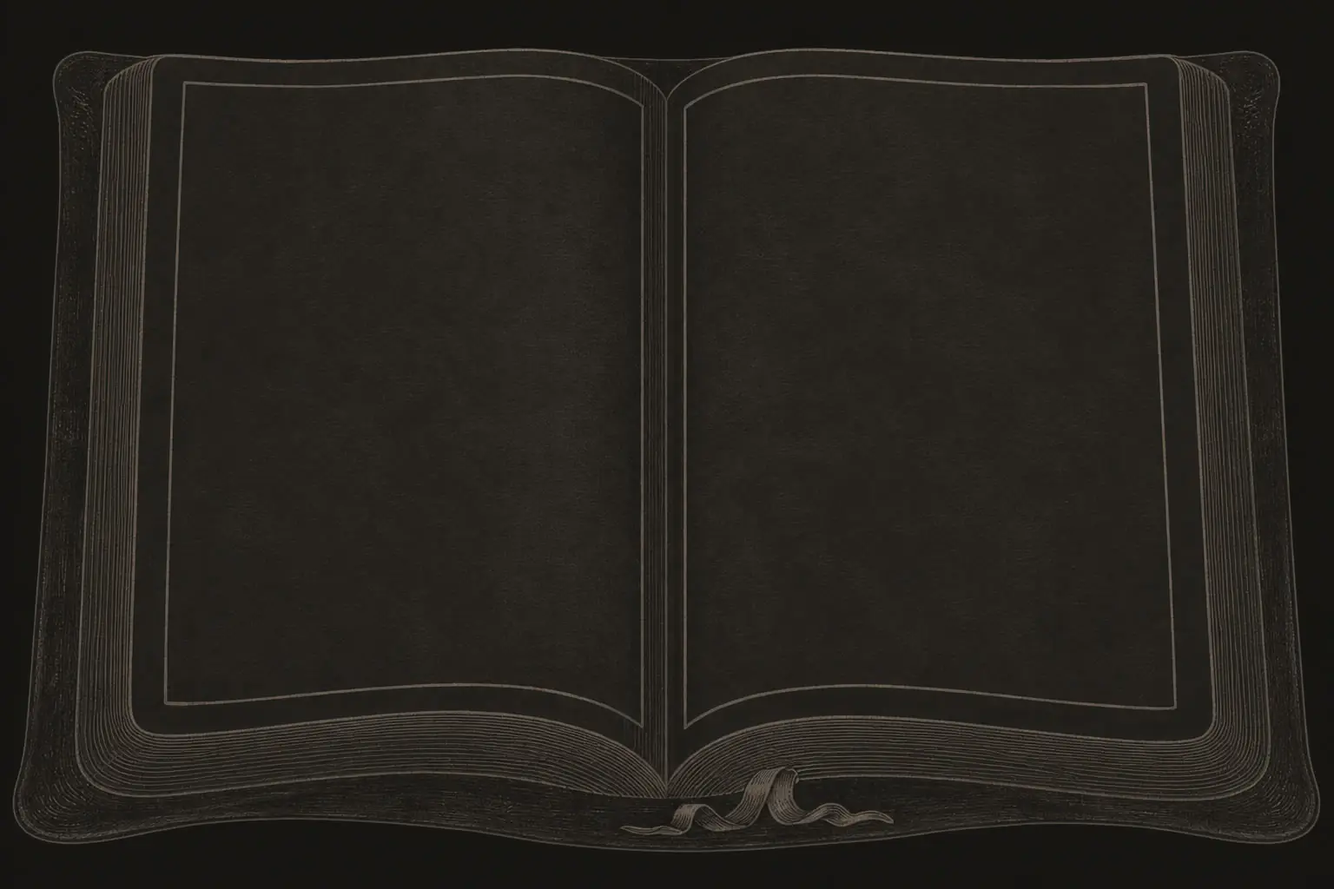
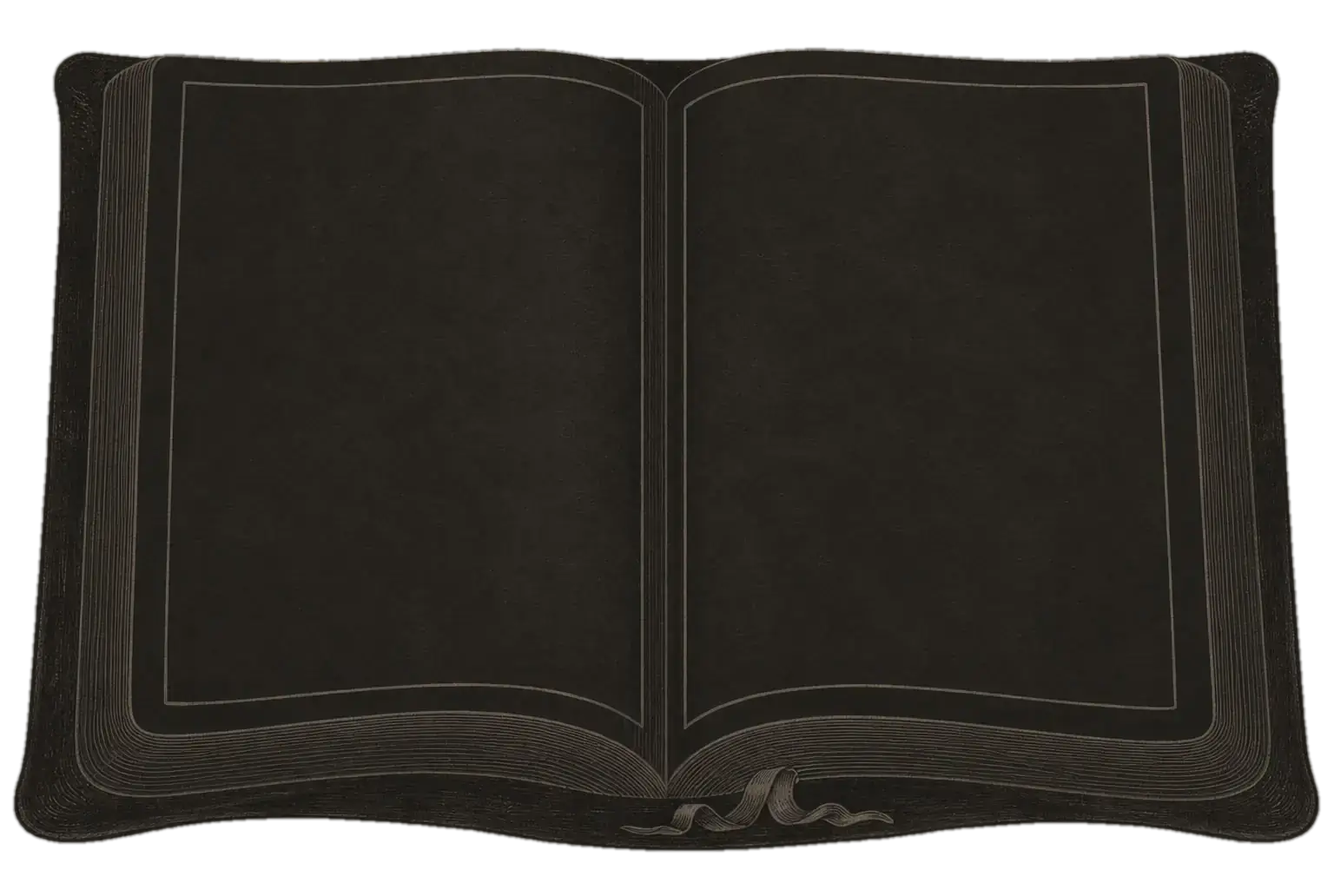
fix(home): отступы книги от нарисованной рамки страниц, книга без фона-прямоугольника (#2430)

Changed region(s): [[0.0, 0.0, 1.0, 1.0]]

diff --git a/scripts/ssg-skeletons.js b/scripts/ssg-skeletons.js
@@ -255,7 +255,7 @@ ${HOME_DOCK_VISIBILITY_SELECTOR},${HOME_DOCK_VISIBILITY_SELECTOR} *{visibility:v
 .ssg-home-popular-line{height:12px;border-radius:6px;margin:10px 12px 0}
 .ssg-home-popular-line.w76{width:76%}.ssg-home-popular-line.w55{width:55%}
 @media(min-width:768px) and (max-width:1279px){.ssg-home-shell{padding:24px}.ssg-home-book{display:grid;grid-template-columns:minmax(0,1fr) minmax(0,1fr);gap:32px}.ssg-home-page{grid-column:1;grid-row:1;justify-content:center;gap:16px;padding:32px}.ssg-home-week{grid-column:2;grid-row:1;margin-top:0}.ssg-home-moods{grid-column:1/-1;grid-template-columns:repeat(2,minmax(0,1fr));margin-top:0;border-top:0;padding-top:0}.ssg-home-hero{aspect-ratio:3/2;height:auto}.ssg-home-popular{display:none}}
-@media(min-width:1280px){.ssg-home-bar{height:78px;padding:0 24px;gap:0}.ssg-home-bar-logo{width:32px;height:32px;flex:0 0 32px}.ssg-home-bar-brand{gap:8px}.ssg-home-bar-word{display:inline;font:600 18px/1 ${SANS};color:${COLORS.light.text};letter-spacing:-0.01em}.ssg-home-bar-burger{display:none}.ssg-home-bar-nav{display:flex;align-items:center;gap:22px;margin-left:41px;font:500 14px/1 ${SANS};color:${COLORS.light.text};white-space:nowrap}.ssg-home-bar-nav-item{display:inline-flex;align-items:center;gap:6px}.ssg-home-bar-nav-ico{width:18px;height:18px;flex:0 0 18px}.ssg-home-bar-login{display:inline-flex;align-items:center;gap:8px;height:36px;padding:0 14px;margin-left:12px;border-radius:12px;background:${COLORS.light.primary};font:700 14px/1 ${SANS};color:${COLORS.light.textOnPrimary}}.ssg-home-bar-guest{display:inline-flex;align-items:center;gap:8px;height:36px;padding:0 14px;margin-left:12px;border-radius:12px;background:${COLORS.light.bgSecondary};font:500 14px/1 ${SANS};color:${COLORS.light.text}}.ssg-home-shell{max-width:none;padding:52px 40px 24px}.ssg-home-book{display:grid;grid-template-columns:49% 51%;gap:0;margin:0 auto;background-color:${COLORS.light.surface};background-image:var(--image-homeHeroBook,none);background-size:100% 100%;background-repeat:no-repeat;border-radius:36px;overflow:hidden}.ssg-home-page{position:relative;align-self:stretch;min-height:0;min-width:0;box-sizing:border-box;justify-content:flex-start;gap:0;border-radius:0;background:transparent;border:0;overflow:hidden}.ssg-home-page-content{display:flex;flex-direction:column;min-height:0;overflow-y:auto;overflow-x:hidden}.ssg-home-page-content>*{flex-shrink:0}.ssg-home-chapter{display:flex;align-items:center;gap:10px;margin-bottom:12px}.ssg-home-chapter-label{font:600 11px/1.4 Baskerville,Georgia,'Times New Roman',serif;letter-spacing:.14em;text-transform:uppercase;color:${COLORS.light.textMuted};white-space:nowrap}.ssg-home-chapter-line{flex:1;height:1px;background:${COLORS.light.border}}.ssg-home-title{font-family:Baskerville,Georgia,'Times New Roman',serif;font-size:clamp(24px,1.9vw,32px);line-height:1.24;letter-spacing:-0.2px}.ssg-home-title .ssg-accent{color:${BOOK_PAGE_ACCENT}}.ssg-home-sub{font-family:Baskerville,Georgia,'Times New Roman',serif;max-width:88%;margin-top:10px;margin-bottom:12px}.ssg-home-sub-mobile{display:none}.ssg-home-sub-desktop{display:block}.ssg-home-search-row{height:50px;margin-top:0;margin-bottom:10px}.ssg-home-search{height:50px}.ssg-home-search-btn{width:50px;height:50px;flex:0 0 50px}.ssg-home-cta{width:100%;min-width:190px;height:44px;margin-top:0}.ssg-home-moods,.ssg-home-popular{display:none}.ssg-home-week{top:29.2%;align-self:start;width:61.2%;aspect-ratio:3/2;margin:0 0 0 5.1%;border-radius:12px;border:0;background:${HOME_HERO_FILL}}.ssg-home-hero{position:absolute;inset:0;height:100%;aspect-ratio:auto;border-radius:inherit}.ssg-home-week-body{left:24px;right:24px;bottom:22px;padding:18px}}
+@media(min-width:1280px){.ssg-home-bar{height:78px;padding:0 24px;gap:0}.ssg-home-bar-logo{width:32px;height:32px;flex:0 0 32px}.ssg-home-bar-brand{gap:8px}.ssg-home-bar-word{display:inline;font:600 18px/1 ${SANS};color:${COLORS.light.text};letter-spacing:-0.01em}.ssg-home-bar-burger{display:none}.ssg-home-bar-nav{display:flex;align-items:center;gap:22px;margin-left:41px;font:500 14px/1 ${SANS};color:${COLORS.light.text};white-space:nowrap}.ssg-home-bar-nav-item{display:inline-flex;align-items:center;gap:6px}.ssg-home-bar-nav-ico{width:18px;height:18px;flex:0 0 18px}.ssg-home-bar-login{display:inline-flex;align-items:center;gap:8px;height:36px;padding:0 14px;margin-left:12px;border-radius:12px;background:${COLORS.light.primary};font:700 14px/1 ${SANS};color:${COLORS.light.textOnPrimary}}.ssg-home-bar-guest{display:inline-flex;align-items:center;gap:8px;height:36px;padding:0 14px;margin-left:12px;border-radius:12px;background:${COLORS.light.bgSecondary};font:500 14px/1 ${SANS};color:${COLORS.light.text}}.ssg-home-shell{max-width:none;padding:52px 40px 24px}.ssg-home-book{display:grid;grid-template-columns:49% 51%;gap:0;margin:0 auto;background-color:transparent;background-image:var(--image-homeHeroBook,none);background-size:100% 100%;background-repeat:no-repeat;border-radius:36px;overflow:hidden}.ssg-home-page{position:relative;align-self:stretch;min-height:0;min-width:0;box-sizing:border-box;justify-content:flex-start;gap:0;border-radius:0;background:transparent;border:0;overflow:hidden}.ssg-home-page-content{display:flex;flex-direction:column;min-height:0;overflow-y:auto;overflow-x:hidden}.ssg-home-page-content>*{flex-shrink:0}.ssg-home-chapter{display:flex;align-items:center;gap:10px;margin-bottom:12px}.ssg-home-chapter-label{font:600 11px/1.4 Baskerville,Georgia,'Times New Roman',serif;letter-spacing:.14em;text-transform:uppercase;color:${COLORS.light.textMuted};white-space:nowrap}.ssg-home-chapter-line{flex:1;height:1px;background:${COLORS.light.border}}.ssg-home-title{font-family:Baskerville,Georgia,'Times New Roman',serif;font-size:clamp(24px,1.9vw,32px);line-height:1.24;letter-spacing:-0.2px}.ssg-home-title .ssg-accent{color:${BOOK_PAGE_ACCENT}}.ssg-home-sub{font-family:Baskerville,Georgia,'Times New Roman',serif;max-width:88%;margin-top:10px;margin-bottom:12px}.ssg-home-sub-mobile{display:none}.ssg-home-sub-desktop{display:block}.ssg-home-search-row{height:50px;margin-top:0;margin-bottom:10px}.ssg-home-search{height:50px}.ssg-home-search-btn{width:50px;height:50px;flex:0 0 50px}.ssg-home-cta{width:100%;min-width:190px;height:44px;margin-top:0}.ssg-home-moods,.ssg-home-popular{display:none}.ssg-home-week{top:29.2%;align-self:start;width:61.2%;aspect-ratio:3/2;margin:0 0 0 5.1%;border-radius:12px;border:0;background:${HOME_HERO_FILL}}.ssg-home-hero{position:absolute;inset:0;height:100%;aspect-ratio:auto;border-radius:inherit}.ssg-home-week-body{left:24px;right:24px;bottom:22px;padding:18px}}
 @media(min-width:1280px){.ssg-home-legal{max-width:none;padding:8px 40px 0}}
 @media(min-width:1280px) and (min-height:961px){.ssg-home-notes{display:grid;grid-template-columns:repeat(2,minmax(0,1fr));gap:7px;margin-top:8px}.ssg-home-note{height:44px;border-radius:12px;background:rgba(255,255,255,.45);border:1px solid ${COLORS.light.border}}}
 ${buildHomeBookSkeletonGeometryCSS()}
@@ -411,7 +411,7 @@ html[data-theme="dark"] .ssg-home-popular-card{background:${COLORS.dark.bgSecond
 /* Акцент и поле поиска темизируются только вне книги: страница раскрытой книги
    на desktop всегда светлая (bookPageAccent + бумажные цвета поиска). */
 @media(max-width:1279px){html[data-theme="dark"] .ssg-home-title .ssg-accent{color:${COLORS.dark.accent}}html[data-theme="dark"] .ssg-home-search{background:${COLORS.dark.surface};border-color:${COLORS.dark.border};color:${COLORS.dark.textMuted}}html[data-theme="dark"] .ssg-home-search-text{color:${COLORS.dark.textMuted}}}
-@media(min-width:1280px){html[data-theme="dark"] .ssg-home-page{background-color:transparent}}
+@media(min-width:1280px){html[data-theme="dark"] .ssg-home-book,html[data-theme="dark"] .ssg-home-page{background-color:transparent}}
 html[data-theme="dark"] .ssg-search-card,html[data-theme="dark"] .ssg-search-aside{background:${COLORS.dark.surface};border-color:${COLORS.dark.border}}
 html[data-theme="dark"] .ssg-search-bar{background:${COLORS.dark.surface};border-color:${COLORS.dark.border};color:${COLORS.dark.textMuted}}
 html[data-theme="dark"] .ssg-search-tool{background:${COLORS.dark.bgSecondary};border-color:${COLORS.dark.border}}

diff --git a/components/home/homeBookGeometry.js b/components/home/homeBookGeometry.js
@@ -1,14 +1,47 @@
 /* global module */
 // Pure geometry shared by the loaded book and its Node-only static shell.
+// Inner page frame drawn on open-book-bg(-dark).webp (both share one drawing),
+// as shares of the artwork. The wrapper stretches the artwork with
+// `background-size: 100% 100%`, so horizontal shares are shares of the book
+// width and vertical ones of the book height. Innermost line across the page
+// slant, measured on the 1536×1024 source.
+const HOME_BOOK_ARTWORK_FRAME = Object.freeze({
+  left: 0.131,
+  gutterLeft: 0.4805,
+  right: 0.867,
+  top: 0.097,
+  bottom: 0.777,
+})
+// Breathing room between that frame line and the page content.
+const HOME_BOOK_FRAME_GAP = Object.freeze({ x: 0.025, y: 0.035 })
+// Shares go into CSS strings verbatim, so float noise is cut off here.
+const share = (value) => Math.round(value * 1e4) / 1e4
+
 const HOME_BOOK_GEOMETRY = Object.freeze({
   viewportReserve: 180,
   horizontalReserve: 80,
   artworkHeightRatio: 765 / 1040,
   minHeight: 240,
   compactHeight: 760,
-  topInsetShare: 0.08,
-  bottomInsetShare: 0.14,
+  topInsetShare: share(HOME_BOOK_ARTWORK_FRAME.top + HOME_BOOK_FRAME_GAP.y),
+  bottomInsetShare: share(1 - HOME_BOOK_ARTWORK_FRAME.bottom + HOME_BOOK_FRAME_GAP.y),
+  // Left-page content edges, as shares of the whole book width.
+  leftPageStartShare: share(HOME_BOOK_ARTWORK_FRAME.left + HOME_BOOK_FRAME_GAP.x),
+  leftPageEndShare: share(HOME_BOOK_ARTWORK_FRAME.gutterLeft - HOME_BOOK_FRAME_GAP.x),
+  rightPageEndShare: share(1 - HOME_BOOK_ARTWORK_FRAME.right + HOME_BOOK_FRAME_GAP.x),
+  // Page numbers sit inside the frame, just above its bottom line.
+  pageNumberBottomShare: share(1 - HOME_BOOK_ARTWORK_FRAME.bottom + 0.012),
 })
+
+// Horizontal padding of a left page that takes `pageShare` of the book width,
+// as shares of the book width: CSS percentage padding of a flex item resolves
+// against its container — the whole book row — not against the page itself.
+function getHomeBookLeftPagePaddingShares(pageShare) {
+  return {
+    start: HOME_BOOK_GEOMETRY.leftPageStartShare,
+    end: share(Math.max(0, pageShare - HOME_BOOK_GEOMETRY.leftPageEndShare)),
+  }
+}
 
 function getHomeBookWidthLimit(viewportWidth) {
   return viewportWidth >= 2560 ? 1520 : viewportWidth >= 1920 ? 1360 : 1200
@@ -55,9 +88,12 @@ function buildHomeBookSkeletonGeometryCSS() {
     const rightLeftShare = breakpoint >= 2560 ? 0.028 : narrow ? 0.026 : 0.032
     const rightRightShare = breakpoint >= 2560 ? 0.152 : narrow ? 0.172 : 0.162
     const photoBookShare = rightPageShare - rightLeftShare - rightRightShare
-    css += `@media(min-width:${breakpoint}px){.ssg-home-book{--home-book-width:min(calc(100vw - ${g.horizontalReserve}px),${cap}px);--home-book-height:max(${g.minHeight}px,min(calc(100vh - ${g.viewportReserve}px),calc(var(--home-book-width) * ${g.artworkHeightRatio})));--home-book-usable-height:calc(var(--home-book-height) * ${1 - g.topInsetShare - g.bottomInsetShare});width:var(--home-book-width);height:var(--home-book-height);grid-template-columns:${narrow ? '49% 51%' : '50% 50%'}}.ssg-home-page{padding-top:calc(var(--home-book-height) * ${g.topInsetShare});padding-bottom:calc(var(--home-book-height) * ${g.bottomInsetShare});padding-left:${narrow ? 16 : breakpoint >= 1920 && breakpoint < 2560 ? 18 : 17}%;padding-right:${breakpoint >= 2560 ? 8 : 9}%}.ssg-home-title{font-size:max(24px,min(${scale.titleVw}vw,${scale.titleMax}px,calc(var(--home-book-usable-height) * .1)));line-height:1.2}.ssg-home-sub{font-size:max(12px,min(${scale.subtitleVw}vw,${scale.subtitleMax}px,calc(var(--home-book-usable-height) * .03)));line-height:1.5}.ssg-home-week{top:calc(var(--home-book-height) * ${g.topInsetShare} + (var(--home-book-usable-height) - var(--home-book-width) * ${photoBookShare / 1.5}) / 2);width:calc(var(--home-book-width) * ${photoBookShare});margin-left:calc(var(--home-book-width) * ${rightLeftShare})}}`
+    // Grid-item percentages resolve against the page column, so the book-width
+    // shares are spelled out against --home-book-width instead.
+    const padding = getHomeBookLeftPagePaddingShares(1 - rightPageShare)
+    css += `@media(min-width:${breakpoint}px){.ssg-home-book{--home-book-width:min(calc(100vw - ${g.horizontalReserve}px),${cap}px);--home-book-height:max(${g.minHeight}px,min(calc(100vh - ${g.viewportReserve}px),calc(var(--home-book-width) * ${g.artworkHeightRatio})));--home-book-usable-height:calc(var(--home-book-height) * ${share(1 - g.topInsetShare - g.bottomInsetShare)});width:var(--home-book-width);height:var(--home-book-height);grid-template-columns:${narrow ? '49% 51%' : '50% 50%'}}.ssg-home-page{padding-top:calc(var(--home-book-height) * ${g.topInsetShare});padding-bottom:calc(var(--home-book-height) * ${g.bottomInsetShare});padding-left:calc(var(--home-book-width) * ${padding.start});padding-right:calc(var(--home-book-width) * ${padding.end})}.ssg-home-title{font-size:max(24px,min(${scale.titleVw}vw,${scale.titleMax}px,calc(var(--home-book-usable-height) * .1)));line-height:1.2}.ssg-home-sub{font-size:max(12px,min(${scale.subtitleVw}vw,${scale.subtitleMax}px,calc(var(--home-book-usable-height) * .03)));line-height:1.5}.ssg-home-week{top:calc(var(--home-book-height) * ${g.topInsetShare} + (var(--home-book-usable-height) - var(--home-book-width) * ${photoBookShare / 1.5}) / 2);width:calc(var(--home-book-width) * ${photoBookShare});margin-left:calc(var(--home-book-width) * ${rightLeftShare})}}`
   }
   return css
 }
 
-module.exports = { HOME_BOOK_GEOMETRY, getHomeBookWidthLimit, getHomeBookWidth, resolveHomeBookGeometry, getHomeBookPageMetrics, buildHomeBookSkeletonGeometryCSS }
+module.exports = { HOME_BOOK_GEOMETRY, getHomeBookLeftPagePaddingShares, getHomeBookWidthLimit, getHomeBookWidth, resolveHomeBookGeometry, getHomeBookPageMetrics, buildHomeBookSkeletonGeometryCSS }

diff --git a/components/home/homeHeroStyles.ts b/components/home/homeHeroStyles.ts
@@ -4,7 +4,7 @@
 
 import { StyleSheet } from 'react-native'
 import { DESIGN_TOKENS } from '@/constants/designSystem'
-import { getHomeBookPageMetrics, HOME_BOOK_GEOMETRY } from './homeBookGeometry'
+import { getHomeBookLeftPagePaddingShares, getHomeBookPageMetrics, HOME_BOOK_GEOMETRY } from './homeBookGeometry'
 
 import type { HeroStyleContext, HeroStyleParams } from './homeHeroStyles/context'
 import { createHeroShellStyles } from './homeHeroStyles/shellStyles'
@@ -44,12 +44,12 @@ export const createHomeHeroStyles = ({
   const desktopBookSubtitleSize = hasBookLayout ? `${pageMetrics.subtitleSize}px` : '17px'
   const desktopBookSubtitleLineHeight = hasBookLayout ? `${pageMetrics.subtitleLineHeight}px` : '28px'
 
-  // CSS percentage padding resolves against the containing book row width.
-  // Convert the paper's page-relative horizontal shares to book-relative ones.
+  // Content edges follow the page frame drawn on the book artwork; shares are
+  // of the whole book row, which is what flex-item percentage padding resolves to.
   const leftPageShare = isNarrowDesktopBook ? 0.49 : 0.5
-  const leftInsetShare = isUltraWideBook ? 0.17 : isLargeDesktopBook ? 0.18 : isNarrowDesktopBook ? 0.16 : 0.17
-  const leftPagePaddingLeft = hasBookLayout ? `${leftPageShare * leftInsetShare * 100}%` : 100
-  const leftPagePaddingRight = hasBookLayout ? `${leftPageShare * (isUltraWideBook ? 0.08 : 0.09) * 100}%` : 16
+  const leftPagePadding = getHomeBookLeftPagePaddingShares(leftPageShare)
+  const leftPagePaddingLeft = hasBookLayout ? `${leftPagePadding.start * 100}%` : 100
+  const leftPagePaddingRight = hasBookLayout ? `${leftPagePadding.end * 100}%` : 16
   const leftPagePaddingTop = hasBookLayout ? pageMetrics.topInset : 48
   const leftPageWidth = showSideSlider
     ? isNarrowDesktopBook
@@ -66,6 +66,15 @@ export const createHomeHeroStyles = ({
   const useDenseBookNotes = showSideSlider && viewportWidth < 2200
 
   const leftPagePaddingBottom = hasBookLayout ? pageMetrics.bottomInset : 110
+  // Page numbers are absolute children of their page, so percentages resolve
+  // against the page width; they line up with the page content edges.
+  const pageNumberBottom = hasBookLayout ? bookHeight * HOME_BOOK_GEOMETRY.pageNumberBottomShare : isMobile ? 10 : 14
+  const leftPageNumberLeft = hasBookLayout
+    ? (`${(HOME_BOOK_GEOMETRY.leftPageStartShare / leftPageShare) * 100}%` as const)
+    : isMobile ? 14 : 20
+  const rightPageNumberRight = hasBookLayout
+    ? (`${(HOME_BOOK_GEOMETRY.rightPageEndShare / (1 - leftPageShare)) * 100}%` as const)
+    : isMobile ? 14 : 20
 
   const warmBg = colors.background
   const warmBgSoft = hasBookLayout
@@ -128,6 +137,9 @@ export const createHomeHeroStyles = ({
     leftPagePaddingRight,
     leftPagePaddingTop,
     leftPagePaddingBottom,
+    pageNumberBottom,
+    leftPageNumberLeft,
+    rightPageNumberRight,
     leftPageWidth,
     rightPageWidth,
     serif,

diff --git a/__tests__/scripts/ssg-skeletons.test.ts b/__tests__/scripts/ssg-skeletons.test.ts
@@ -357,7 +357,7 @@ describe('ssg-skeletons', () => {
       expect(css).toContain('data-theme="dark"');
       expect(css).toContain(COLORS.dark.surface);
       expect(css).toContain(
-        '@media(min-width:1280px){html[data-theme="dark"] .ssg-home-page{background-color:transparent}}',
+        '@media(min-width:1280px){html[data-theme="dark"] .ssg-home-book,html[data-theme="dark"] .ssg-home-page{background-color:transparent}}',
       );
     });
 
@@ -710,7 +710,7 @@ describe('ssg-skeletons', () => {
       const { resolveHomeBookGeometry } = require('../../components/home/homeBookGeometry');
       const book = resolveHomeBookGeometry(1350, 940);
       expect(book.height).toBe(bookHeight);
-      expect(book.usableHeight).toBeCloseTo(592.8);
+      expect(book.usableHeight).toBeCloseTo(463.6);
 
       expect(css).toMatch(/@media\(min-width:1280px\)\{[^\n]*\.ssg-home-bar\{height:78px/);
       expect(css).toContain('.ssg-home-shell{max-width:none;padding:52px 40px 24px}');
@@ -721,8 +721,12 @@ describe('ssg-skeletons', () => {
       expect(css).not.toContain('aspect-ratio:1040/765');
       expect(css).toContain('background-image:var(--image-homeHeroBook,none)');
       expect(css).toContain('.ssg-home-page{position:relative;align-self:stretch;min-height:0;');
-      expect(css).toContain('padding-top:calc(var(--home-book-height) * 0.08)');
-      expect(css).toContain('padding-bottom:calc(var(--home-book-height) * 0.14)');
+      expect(css).toContain('padding-top:calc(var(--home-book-height) * 0.132)');
+      expect(css).toContain('padding-bottom:calc(var(--home-book-height) * 0.258)');
+      // Grid-item % would resolve against the page column, not the book.
+      expect(css).toContain('padding-left:calc(var(--home-book-width) * 0.156)');
+      // The cut-out artwork carries no backdrop of its own around the book.
+      expect(css).toMatch(/\.ssg-home-book\{display:grid;[^}]*background-color:transparent;background-image:var\(--image-homeHeroBook/);
       expect(css).toContain('.ssg-home-page-content{display:flex;flex-direction:column;min-height:0;overflow-y:auto;overflow-x:hidden}');
       expect(css).toContain(
         '.ssg-home-week{top:29.2%;align-self:start;width:61.2%;aspect-ratio:3/2;margin:0 0 0 5.1%',

diff --git a/__tests__/components/home/homeBookGeometry.test.ts b/__tests__/components/home/homeBookGeometry.test.ts
@@ -1,4 +1,27 @@
-import { HOME_BOOK_GEOMETRY, resolveHomeBookGeometry } from '@/components/home/homeBookGeometry'
+import {
+  getHomeBookLeftPagePaddingShares,
+  HOME_BOOK_GEOMETRY,
+  resolveHomeBookGeometry,
+} from '@/components/home/homeBookGeometry'
+
+// Inner page frame of open-book-bg(-dark).webp, measured on the 1536×1024 art.
+const ARTWORK_FRAME = { left: 196 / 1536, gutterLeft: 738 / 1536, right: 1340 / 1536, top: 98 / 1024, bottom: 796 / 1024 }
+
+describe('home book content sits inside the drawn page frame', () => {
+  it.each([0.5, 0.49])('keeps the left page content off the frame lines (page share %s)', (pageShare) => {
+    const padding = getHomeBookLeftPagePaddingShares(pageShare)
+    expect(padding.start).toBeGreaterThan(ARTWORK_FRAME.left + 0.01)
+    expect(pageShare - padding.end).toBeLessThan(ARTWORK_FRAME.gutterLeft - 0.01)
+    expect(pageShare - padding.end - padding.start).toBeGreaterThan(0.25)
+  })
+
+  it('starts content below the top frame line and ends it above the bottom one', () => {
+    expect(HOME_BOOK_GEOMETRY.topInsetShare).toBeGreaterThan(ARTWORK_FRAME.top + 0.01)
+    expect(1 - HOME_BOOK_GEOMETRY.bottomInsetShare).toBeLessThan(ARTWORK_FRAME.bottom - 0.01)
+    expect(1 - HOME_BOOK_GEOMETRY.pageNumberBottomShare).toBeLessThan(ARTWORK_FRAME.bottom)
+    expect(1 - HOME_BOOK_GEOMETRY.rightPageEndShare).toBeLessThan(ARTWORK_FRAME.right)
+  })
+})
 
 describe('home book viewport capacity', () => {
   it.each([

diff --git a/app/global.css b/app/global.css
@@ -1,7 +1,7 @@
 /* Global CSS for web - box-sizing fix */
 
 :root {
-  --image-homeHeroBook: url('/assets/images/open-book-bg.webp');
+  --image-homeHeroBook: url('/assets/images/open-book-bg.webp?v=cutout');
   --color-transparent: rgba(93, 140, 124, 0);
   --color-travelPoint: #ff922b;
   /* DARK-02: Gradient CSS-переменные для light mode */
@@ -98,7 +98,7 @@
 }
 
 html[data-theme="dark"] {
-  --image-homeHeroBook: url('/assets/images/open-book-bg-dark.webp');
+  --image-homeHeroBook: url('/assets/images/open-book-bg-dark.webp?v=cutout');
   /* DARK-02: Gradient CSS-переменные для dark mode — тёмные, приглушённые */
   --gradient-hero: linear-gradient(135deg, #1e1e1e 0%, #202820 50%, #1a1a1a 100%);
   --gradient-card-featured: linear-gradient(180deg, #2a2a2a 0%, #222222 100%);
@@ -197,7 +197,7 @@ html[data-theme="dark"] {
 
 @media (prefers-color-scheme: dark) {
   html:not([data-theme]) {
-    --image-homeHeroBook: url('/assets/images/open-book-bg-dark.webp');
+    --image-homeHeroBook: url('/assets/images/open-book-bg-dark.webp?v=cutout');
     --color-transparent: rgba(143, 181, 165, 0);
     --color-background: #1a1a1a;
     --color-backgroundSecondary: #202020;

diff --git a/components/home/homeBookGeometry.d.ts b/components/home/homeBookGeometry.d.ts
@@ -1,7 +1,9 @@
 export const HOME_BOOK_GEOMETRY: Readonly<{
   viewportReserve: number; horizontalReserve: number; artworkHeightRatio: number;
   minHeight: number; compactHeight: number; topInsetShare: number; bottomInsetShare: number;
+  leftPageStartShare: number; leftPageEndShare: number; rightPageEndShare: number; pageNumberBottomShare: number;
 }>
+export function getHomeBookLeftPagePaddingShares(pageShare: number): { start: number; end: number }
 export function getHomeBookWidthLimit(viewportWidth: number): number
 export function getHomeBookWidth(viewportWidth: number): number
 export function getHomeBookPageMetrics(viewportWidth: number, height: number): {

diff --git a/components/home/homeHeroStyles/bookWidgetStyles.ts b/components/home/homeHeroStyles/bookWidgetStyles.ts
@@ -388,7 +388,7 @@ export const createBookWidgetStyles = (ctx: HeroStyleContext) => {
     },
     bookPageNumber: {
       position: 'absolute' as const,
-      bottom: isMobile ? 10 : 14,
+      bottom: ctx.pageNumberBottom,
       fontSize: isMobile ? 12 : 14,
       fontWeight: '500',
       letterSpacing: 0.5,
@@ -400,7 +400,6 @@ export const createBookWidgetStyles = (ctx: HeroStyleContext) => {
         } as any,
       }),
     },
-    bookPageNumberLeft: { left: isMobile ? 14 : 20 },
-    bookPageNumberRight: { right: isMobile ? 14 : 20 },
+    bookPageNumberLeft: { left: ctx.leftPageNumberLeft },
   } as const
 }

diff --git a/components/home/homeHeroStyles/shellStyles.ts b/components/home/homeHeroStyles/shellStyles.ts
@@ -205,24 +205,6 @@ export const createHeroShellStyles = (ctx: HeroStyleContext) => {
           : {},
       }),
     },
-    heroPageGoldLine: {
-      position: 'absolute' as const,
-      top: 0,
-      left: '12%',
-      right: '12%',
-      height: 1,
-      zIndex: 5,
-      ...Platform.select({
-        web: {
-          backgroundImage: `linear-gradient(90deg, 
-        transparent 0%, 
-        rgba(180,150,80,0.35) 15%, 
-        rgba(180,150,80,0.35) 85%, 
-        transparent 100%
-      )`,
-        } as any,
-      }),
-    },
     heroPageCurlLeft: {
       position: 'absolute' as const,
       bottom: 0,

diff --git a/components/home/HomeHeroBookLayout.tsx b/components/home/HomeHeroBookLayout.tsx
@@ -520,7 +520,6 @@ export default function HomeHeroBookLayout({
           {withBookFrame && <View style={styles.heroBookSpine} />}
 
           <View testID="home-hero-left-page" style={styles.heroSection}>
-            {withBookFrame && <View style={styles.heroPageGoldLine} />}
             {withBookFrame && <View style={styles.heroPageCurlLeft} />}
 
             <View testID="home-hero-left-frame" style={styles.leftPageFrame}>

diff --git a/components/home/homeHeroStyles/sliderSectionStyles.ts b/components/home/homeHeroStyles/sliderSectionStyles.ts
@@ -101,8 +101,8 @@ export const createSliderSectionStyles = (ctx: HeroStyleContext) => {
     },
     sliderPageNumber: {
       position: 'absolute' as const,
-      bottom: isMobile ? 10 : 14,
-      right: isMobile ? 14 : 20,
+      bottom: ctx.pageNumberBottom,
+      right: ctx.rightPageNumberRight,
       fontSize: isMobile ? 10 : 11,
       fontWeight: '400',
       letterSpacing: 0.4,

diff --git a/components/home/homeHeroStyles/context.ts b/components/home/homeHeroStyles/context.ts
@@ -58,6 +58,9 @@ export interface HeroStyleContext {
   leftPagePaddingRight: string | number
   leftPagePaddingTop: string | number
   leftPagePaddingBottom: string | number
+  pageNumberBottom: number
+  leftPageNumberLeft: `${number}%` | number
+  rightPageNumberRight: `${number}%` | number
   leftPageWidth: string
   rightPageWidth: string | number
 
